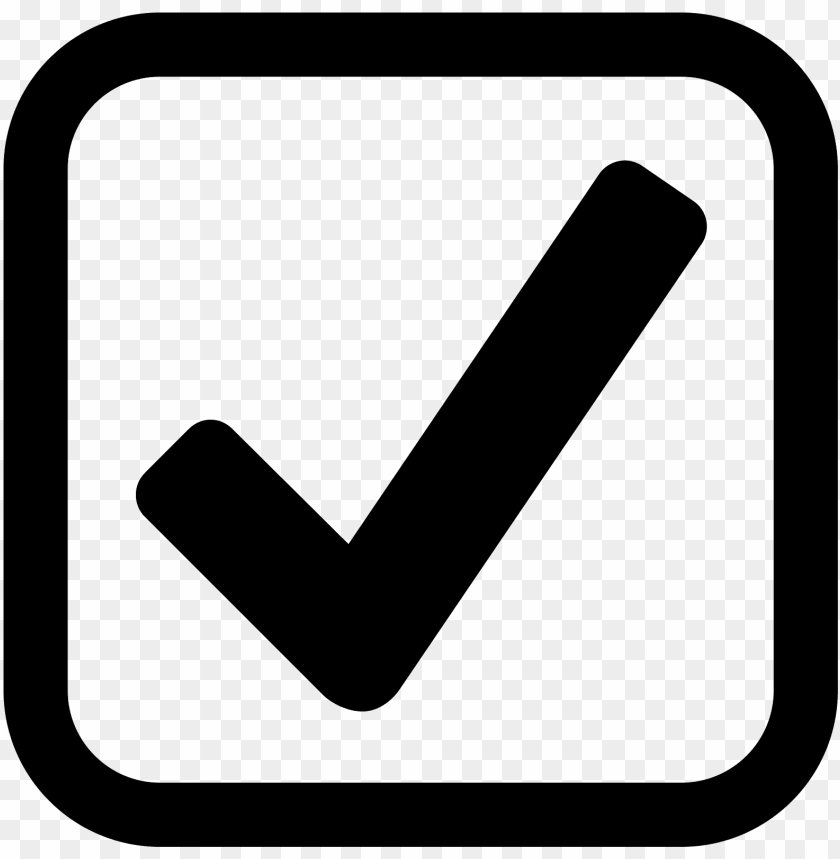
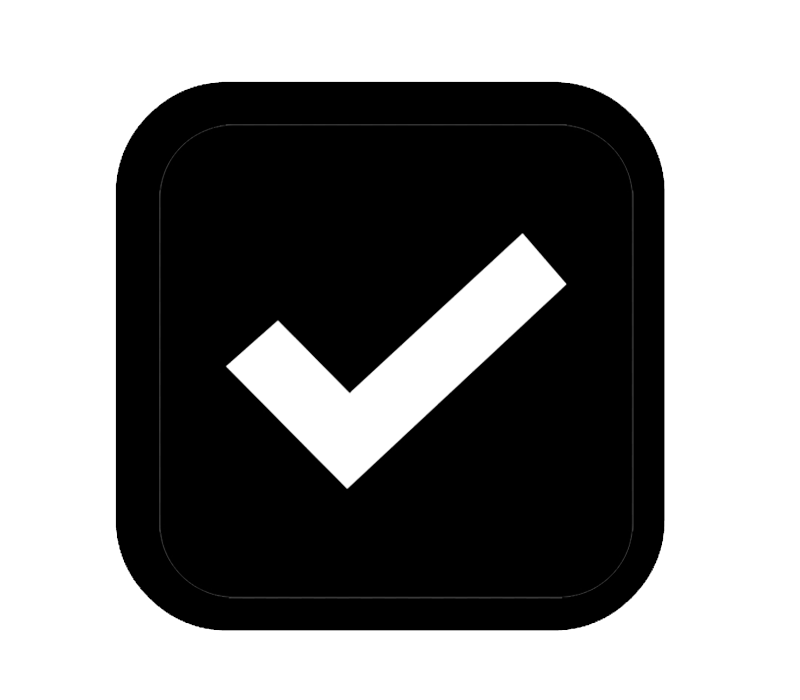
limpeza codigo /  icone check e cursor

diff --git a/src/componentes/Item/Item.css b/src/componentes/Item/Item.css
@@ -7,6 +7,9 @@
   padding-top: 20px
 }
 .pointer { cursor: pointer; }
+
+.auto {cursor: auto;}
+
 .formulario {
   width: 300px;
   border: none;
@@ -17,10 +20,15 @@
   font-weight: normal;
   font-size: 24px;
   line-height: 29px;
-  border-bottom: 1px solid black;
+ /*  border-bottom: 1px solid black; */
   width: 80%;
 }
 
 .texto {
   font-size: 39px;
+}
+
+.check{
+  width: 28px;
+  height: 24px;
 }

diff --git a/src/componentes/Item/Item.js b/src/componentes/Item/Item.js
@@ -2,7 +2,7 @@ import React, { useState } from "react";
 import "./Item.css";
 import RemoveIcon from "../../imagem/remove.png";
 import checkOn from "../../imagem/checkOn.png";
-import checkOff from "../../imagem/checkOff.png";
+import checkOff from "../../imagem/chekOff.png";
 
 export default function Item(props) {
   const [check, setCheck] = useState(false);

diff --git a/public/index.html b/public/index.html
@@ -13,7 +13,7 @@
 
     <link rel="manifest" href="%PUBLIC_URL%/manifest.json" />
 
-    <title>React App</title>
+    <title>To-do List</title>
   </head>
   <body>
     <noscript>You need to enable JavaScript to run this app.</noscript>
